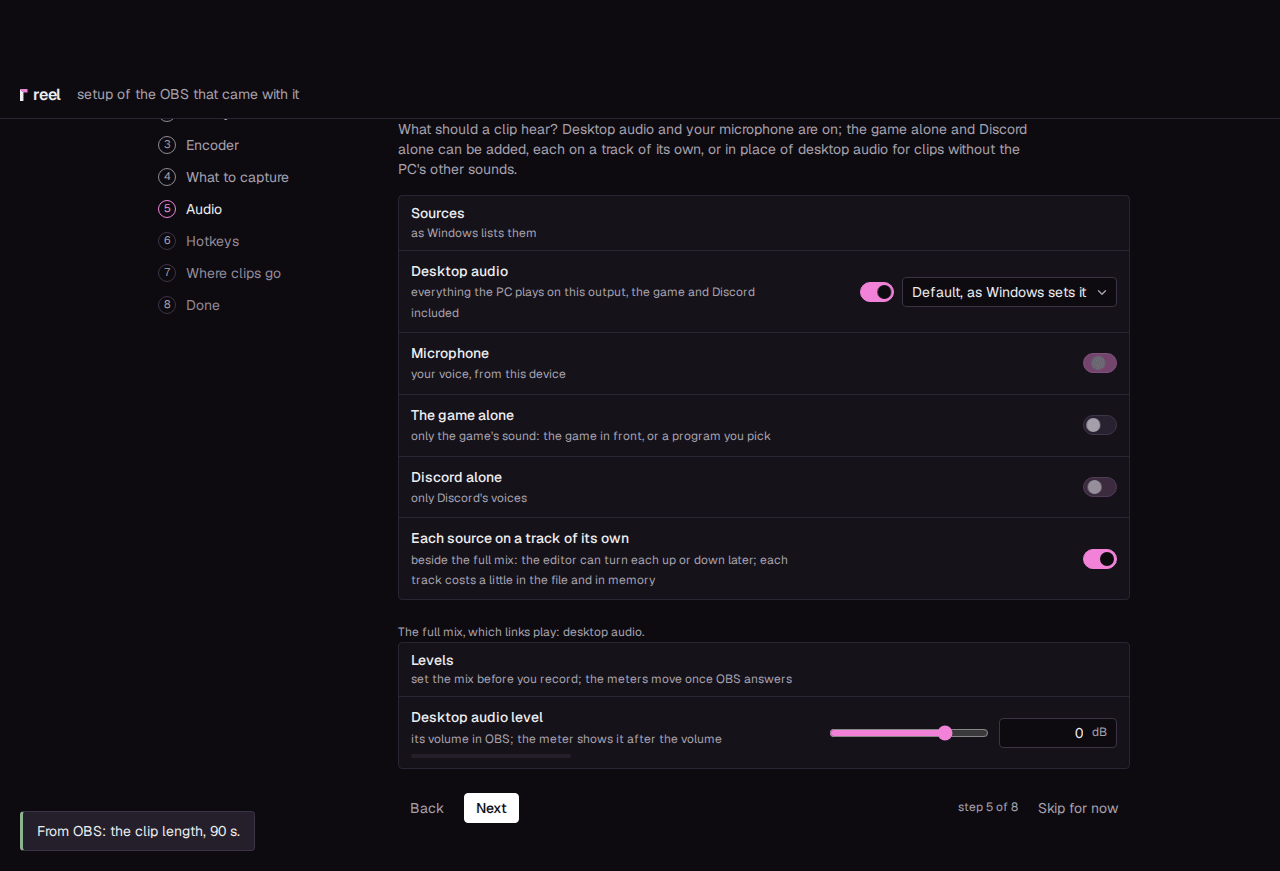
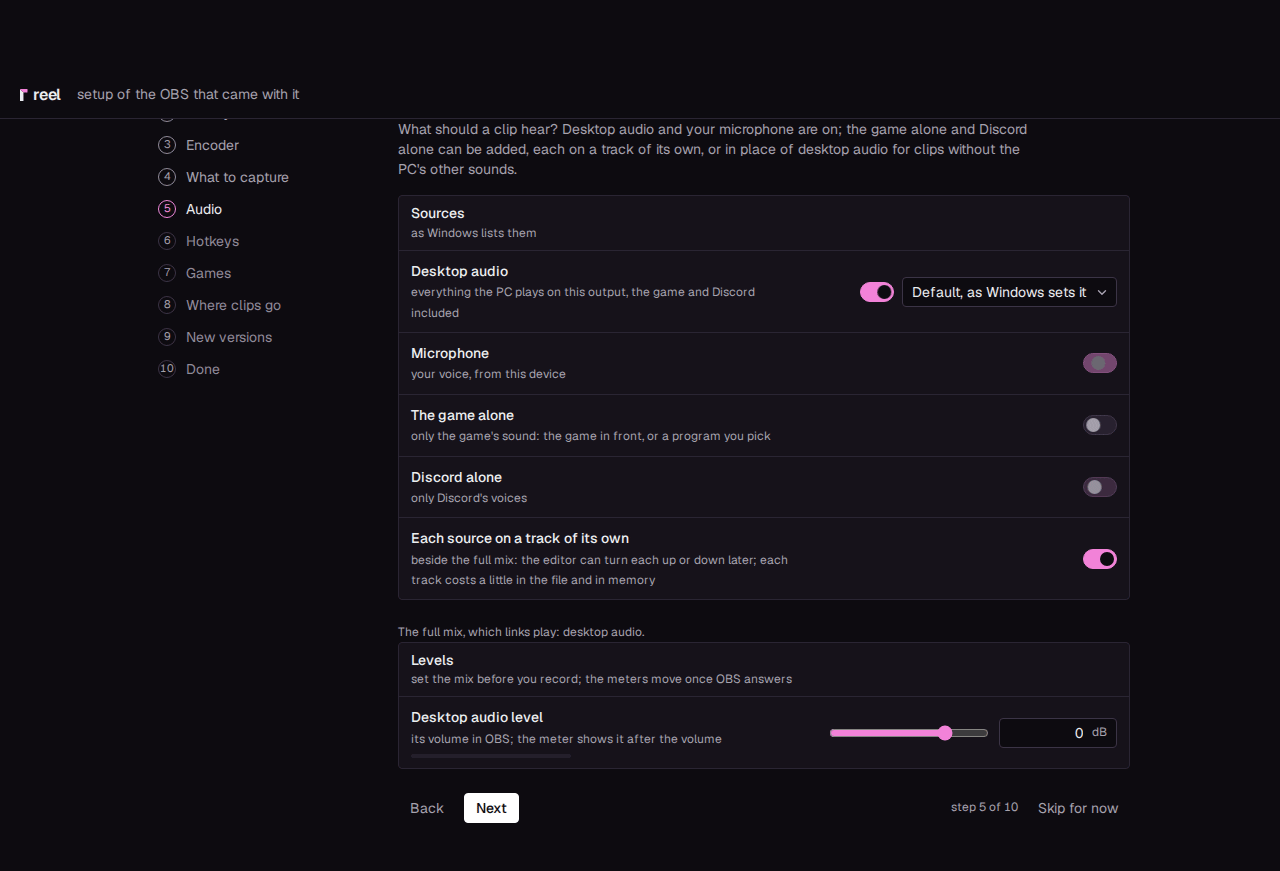
docs: what a game does while it runs, the server's titles on a rename, and the setup's pictures taken again
Games and apps gains the running check, the replay buffer only while a game runs and a game's own
Off, the games that record by themselves and stop the recording when they close, the grace
period, what the Save hotkey says when it saves nothing, the bar and the tray, the three layers
for every behaviour in one table, and two more examples. The privacy page says what the device
token reaches, the new title route with it. The setup guides gain the step's Replay buffer choice;
their pictures are taken again with the step Games in the list, under its step numbers.

Changed region(s): [[0.0, 0.93, 0.2188, 0.992], [0.125, 0.31, 0.2188, 0.434], [0.75, 0.899, 0.7812, 0.93]]

diff --git a/docs/games-and-apps.md b/docs/games-and-apps.md
@@ -1,8 +1,10 @@
 # Games and apps
 
 Settings, **Games and apps**, in the app's **Recording** group, is the list of the programs reel
-has seen on this PC: which ones are games, and the name each gives its clips. Steam's installed
-games come into it by themselves. The list is this PC's alone and stays on it.
+has seen on this PC: which ones are games, the name each gives its clips, and what each does
+while it runs: whether the replay buffer runs, whether a session recording starts by itself and
+stops when it closes, and whether uploads and encoding wait. Steam's installed games come into it
+by themselves. The list is this PC's alone and stays on it.
 
 ## How a program gets in
 
@@ -20,8 +22,12 @@ editors, Explorer, OBS and reel itself never come in: reel knows they are no gam
 !!! note "On Linux"
 
     The app cannot tell which program is in front on Linux, so there the list fills from Steam
-    and by hand, and clips are named as before: by the game OBS captures by its window, when it
-    does, and otherwise by their date.
+    and by hand. It can tell which programs of the list run: the replay buffer, a session
+    recording that starts by itself and one that stops with its game work as on Windows, and a
+    clip takes the name of the game that runs, when one Game alone runs. Otherwise clips are
+    named as before: by the game OBS captures by its window, when it does, and otherwise by
+    their date. A program not sorted yet never counts as a game there, as reel cannot tell
+    whether it has the whole screen; the waits are Windows' alone.
 
 ## Steam
 
@@ -74,6 +80,9 @@ A program's page shows its class as four cards; one click sorts it.
 | | Game | Not a game | Not sorted yet | Ignored |
 |---|---|---|---|---|
 | Clips saved in front of it take its name | yes | yes | yes | no |
+| The replay buffer, when it runs only while a game runs | runs while it runs | not started by it | runs while it has the whole screen | as if it were not there |
+| Records by itself, when every game does | yes | no | no | no |
+| Stops the session recording when it closes | yes | no | no | no |
 | The waits, when they are on | while it is in front | never | while it has the whole screen | never |
 | In the list | by name | by name | first, marked | at the end |
 
@@ -95,10 +104,94 @@ A program's page shows its class as four cards; one click sorts it.
 - **Clips are named** (Windows): after its name, or after its window's title, for an emulator
   or a launcher that shows the game it runs.
 - **Class**: the four cards above.
-- **This program** (Windows): the waits for this program alone, **As its class**, **On** or
-  **Off**, with the line of where its value comes from ([The waits](#the-waits)).
+- **This program**: what it does while it runs, each **As its class**, **On** or **Off** for this
+  program alone, with the line of where its value comes from ([Every game, its class, its own
+  setting](#every-game-its-class-its-own-setting)): **Replay buffer**, **Record by itself**,
+  **Stop when it closes**, and on Windows the waits.
 - **Remove from the list**: it comes back as Not sorted yet when it is seen again; a Steam game
   is not added again. The class Ignored keeps a program out for good.
+
+The list says **running now** on the line of a program that runs.
+
+## While a game runs
+
+reel looks at the programs that run every 3 seconds: on Windows each process and the file it
+runs from, on Linux each program's file under `/proc`. A program counts when its file is in the
+list, or lies in the folder of a Steam game of the list. Nothing of it leaves the PC; the Log
+says each start and close of a program of the list, for example `game: Ember Pass started
+(C:\Games\Ember Pass\EmberPass-Win64-Shipping.exe), a Game`.
+
+### The replay buffer
+
+Settings, **OBS**, **The replay buffer**, **Runs**:
+
+- **always**, the default: as before, a clip can be saved at any time.
+- **only while a game runs**: OBS's replay buffer starts with a game and stops once the last
+  one closed and the [grace period](#the-grace-period) passed. It leaves the PC its memory and
+  its encoder while no game runs.
+
+A game can also stop it while it runs, with its own **Replay buffer** set to **Off**: a heavy
+game that needs every bit of the PC. Such an Off wins over every other program that runs: the
+buffer stays stopped until that game closes.
+
+With an OBS of your own, reel starts and stops OBS's replay buffer only with **Start the
+replay buffer** on (OBS, obs-websocket); choosing **only while a game runs** turns it on, and
+says so. The setup's step **Games** asks the same, **Always** pressed.
+
+### Session recordings
+
+Settings, **Session recording**, **With a game**:
+
+- **Every game records by itself**, off by default: on, a session recording starts when a Game
+  starts. Off, only the games you choose do, with **Record by itself** on their page.
+- **Stop the session recording when its game closes**, on by default: a recording stops once its
+  game closed and the grace period passed. That is also one you started by hand while the game
+  ran. With several such games running, it stops once the last of them closed.
+- **Grace period**, 60 s by default (0 to 600).
+- **Record by itself now** names the games that do, as the list sets them.
+
+One recording covers every game: a second game that starts while one runs does not start
+another. A game that runs when reel starts starts none; one that starts after does. The
+recording takes the game's name, as a clip does. Its notification, **Session recording started**,
+says `Ember Pass started. It stops when Ember Pass closes; Alt+F9 stops it sooner.`, and its end
+**Session recording stopped: Ember Pass closed**. **Record** and Alt+F9 stop it sooner, as
+any recording.
+
+### The grace period
+
+A game that closes and starts again within the grace period counts as still running: a
+launcher that restarts the game, a crash and a quick start again, a change of graphics
+settings that restarts it. The recording goes on as one, and a buffer that runs only while a
+game runs stays. The Log says `game: Ember Pass closed; the session recording stops in 60 s
+unless it starts again`.
+
+### When a clip cannot be saved
+
+While the replay buffer is stopped by these rules, the Save hotkey saves nothing. reel says so
+at once, as a game in full screen may hold notifications back:
+
+- the sound **No clip** (Settings, **Sounds**), a short falling tone, which can be turned off or
+  changed there;
+- the notification **No clip saved**: `The replay buffer is off while Starfall Tactics runs, as
+  set for it under Games and apps. Alt+F9 records a session instead.`, with **Open Games and
+  apps**;
+- in the window, a toast that says why, and the bar's state;
+- in the tray, **Save clip** greyed, with why on the line under it.
+
+**Record** (Alt+F9) works all along.
+
+### In the bar and the tray
+
+While a Game of the list runs, the window's bar names it after its state's words, quietly; a
+long name is cut short, and gives way first on a narrow window, before Record or the state's
+fix. Its menu's sentence says what the game gets: `Ember Pass runs for 14 min, a Game: the
+replay buffer runs.` The tray names it on a line of its own, `Ember Pass runs: the recording
+stops when it closes`, and its tooltip ends with it.
+
+With the buffer stopped, the bar says **waiting for a game** (only while a game runs, and none
+runs) or **no replay buffer** (a game's own Off), the latter with **Games and apps** to change
+it. A program not sorted yet that takes the whole screen shows in the tray as `Quarry Kings is
+new: sort it`, with **Game**, **Not a game**, **Ignore** and **Open in settings**.
 
 ## Renaming
 
@@ -110,8 +203,14 @@ their game, and changes the titles reel made them (the name followed by the mome
 the library on this PC, and the game's own collection follows.
 
 On a connected PC the titles change in the app (Settings, Status, and a clip not sent yet goes
-up with its new title), but not on the server: the app cannot change a clip's title there. Its
-question says so, with how many the server has; change a title on the clip's page on the
+up with its new title). The question also offers **And the N on the server**, on to begin with:
+the titles of the clips this PC sent, changed on the server too. reel sends each one's title
+before and after; the server changes it only while it still reads as before, so a title someone
+changed on the server since stays, and the toast says how many did. A clip whose title on the
+PC was changed by hand is not sent at all.
+
+A server of a version before this cannot take a title from the app: the question then says the
+server's titles stay, with how many the server has; change a title on the clip's page on the
 server.
 
 ## The waits
@@ -129,21 +228,33 @@ Connected, **Only on the internet, not on the LAN** shows under it while it is o
 upload to a server on the local network goes on during a game. An install updated from a
 version before Games and apps starts with the waits off too.
 
-What waits, while which program is in front, comes in three steps, each changing the one
-before:
-
-1. **Every game**: the switch above.
-2. **Its class**: a Game takes it as it is, while its window is in front (a borderless game
-   counts); Not sorted yet takes it while it has the whole screen; Not a game and Ignored never
-   wait.
-3. **Its own setting**, under This program on its page: **On** or **Off** for this program alone,
-   whatever the switch and its class say; **As its class** leaves them.
-
-A program's page shows the three as a line under the row, the one that counts in white:
-`Every game, set under New clips: off › Starfall Tactics: on`.
+What waits, while which program is in front, comes from the [three
+layers](#every-game-its-class-its-own-setting): a Game waits while its window is in front (a
+borderless game counts), a program not sorted yet while it has the whole screen.
 
 The update of the OBS copy for games that run as administrator still waits until no full
 screen program is in front, whatever these say: Windows' question would take the game's screen.
+
+## Every game, its class, its own setting
+
+What a program does while it runs comes in three layers, each changing the one before:
+
+1. **Every game**: set where its subject is.
+2. **Its class**: what the class makes of it ([The classes](#the-classes)).
+3. **Its own setting**, under This program on its page: **On** or **Off** for this program
+   alone, whatever the other two say; **As its class** leaves them.
+
+| | Every game, set under | Off by its class | Its own On | Its own Off |
+|---|---|---|---|---|
+| **Replay buffer** | OBS, The replay buffer: always, or only while a game runs | Not a game and Ignored never start it; Ignored is as if it were not there | it runs while it runs | stopped while it runs, whatever runs beside it |
+| **Record by itself** | Session recording, Every game records by itself | every class but Game | it records when it starts | never |
+| **Stop when it closes** | Session recording, Stop the session recording when its game closes | every class but Game | the recording stops when it closes | the recording goes on after it |
+| **The waits** (Windows) | New clips (Upload when connected) | Not a game and Ignored | they wait while it is in front | never |
+
+Ignored overrides its own settings: an Ignored program does nothing. A program's page shows the
+layers as a line under each row, the one that counts in white: `Every game, set under New
+clips: off › Starfall Tactics: on`. At the top of the list, **What happens while a program
+runs** shows the order.
 
 ## What stays on the PC
 
@@ -169,3 +280,17 @@ takes the whole screen, comes in as Not sorted yet: sort it as **Not a game**.
 **A heavy game.** One game keeps the PC so busy that a re-encode beside it stutters, while the
 others are fine. Leave the waits off under New clips, and on that game's page set **Encoding
 waits** to **On**: the line reads `Every game, set under New clips: off › Starfall Tactics: on`.
+
+**A heavy game with its replay buffer off.** Starfall Tactics needs all of the PC's memory, and
+clips of it are not wanted. On its page set **Replay buffer** to **Off**. While it runs, OBS's
+replay buffer is stopped, also with another game running beside it; the bar says **no replay
+buffer**, and the Save hotkey plays **No clip** and says why. Alt+F9 still records a session.
+Once it closed and the grace period passed, the buffer runs again.
+
+**Two games that record by themselves.** You want every evening of Ember Pass and of Cinder
+Road on record, and clips of the rest. Leave **Every game records by itself** off, and on both
+games' pages set **Record by itself** to **On**; **Record by itself now** under Session recording
+names them. Ember Pass starts a recording; Cinder Road, started an hour later beside it, starts
+none, and the one recording goes on. Ember Pass closes first: the recording goes on while
+Cinder Road runs, and stops once it closed too and the grace period passed. A crash of Cinder
+Road and a start again within the minute does not cut it.

diff --git a/docs/setup/all-in-one.md b/docs/setup/all-in-one.md
@@ -123,17 +123,23 @@ error appears.
    **Record a session**, Alt+F9, starts and stops a
    [session recording](../desktop-app.md#recording-a-whole-session).
 7. **Games**: reel keeps a list of the programs it has seen, which says which ones are games
-   and the name each gives its clips. **Your Steam games** names the games installed in Steam on
-   this PC, read here, and **Add my Steam games to the list** is on: they go into the list as
-   Games with their names in Steam, and each new one as it is installed. Switched off, Steam adds
-   nothing; without Steam, its games come in once it is installed. Settings, **Games and apps**
-   changes it later ([Games and apps](../games-and-apps.md)).
+   and the name each gives its clips. **Replay buffer** is **Always** to begin with: a clip can be
+   saved at any time. **Only while a game runs** starts OBS's replay buffer with a game and stops
+   it a minute after the last one closed, which leaves the PC its memory and its encoder when no
+   game runs. **Your Steam games** names the games installed in Steam on this PC, read here, and
+   **Add my Steam games to the list** is on: they go into the list as Games with their names in
+   Steam, and each new one as it is installed. Switched off, Steam adds nothing; without Steam,
+   its games come in once it is installed. Settings, **Games and apps** changes it later, with
+   the games that record by themselves ([Games and apps](../games-and-apps.md)).
+
+    ![Games](img/app-setup-7-games.png)
+
 8. **Where clips go**: **This PC only** is chosen already. reel keeps the library in the app, on
    this PC, and nothing goes anywhere ([Standalone](standalone.md)). **Clips folder** is where OBS
    writes the clips; reel takes each one into the library. For a server, see
    [Add a server for links](#add-a-server-for-links).
 
-    ![Where clips go](img/app-setup-7-where.png)
+    ![Where clips go](img/app-setup-8-where.png)
 
 9. **New versions**: **Look for new versions on GitHub** is on. The app then asks GitHub for
    reel's newest release, with reel's version and nothing else, a minute after the start and
@@ -141,11 +147,11 @@ error appears.
    asks ([What leaves your PC](../privacy.md#what-leaves-your-pc)). With a server this step is
    not there: the server brings the app's updates.
 
-    ![New versions](img/app-setup-8-new-versions.png)
+    ![New versions](img/app-setup-9-new-versions.png)
 
 10. **Done** shows a summary. Press **Finish**.
 
-    ![Done, the summary](img/app-setup-9-done.png)
+    ![Done, the summary](img/app-setup-10-done.png)
 
 When it worked, OBS starts with your setup, hidden (no window, no second tray icon), and the window
 opens on your library. From now on OBS starts and stops with the app. If one part could not be

diff --git a/docs/setup/own-obs.md b/docs/setup/own-obs.md
@@ -68,8 +68,13 @@ before you begin.
    saves, and the app takes the clip in. Pick a key here that OBS does not use. With a server (the
    next step), **Save and share** shows here too. **Record a session**, Alt+F9, starts and stops
    a [session recording](../desktop-app.md#recording-a-whole-session).
-4. **Games**: the same step as in [All in one](all-in-one.md#3-the-setup): **Add my Steam
-   games to the list** is on, and Settings, **Games and apps** changes it later.
+4. **Games**: the same step as in [All in one](all-in-one.md#3-the-setup): **Replay buffer** is
+   **Always**, **Add my Steam games to the list** is on, and Settings, **Games and apps** changes
+   them later. **Only while a game runs** needs **Start the replay buffer** (step 2) to start and
+   stop OBS's replay buffer: choosing it turns that on, and says so.
+
+    ![Games, without Steam on this PC](img/app-light-4-games.png)
+
 5. **Where clips go**: **This PC only** is chosen already: the library on this PC
    ([Standalone](standalone.md)). For a server, see [Add a server for links](#add-a-server-for-links).
    **Clips folder** is OBS's recording folder, as OBS says; a folder picked here is set in OBS.
@@ -78,7 +83,7 @@ before you begin.
    is not there.
 7. **Done** shows a summary. Press **Finish**, and the window opens on your library.
 
-    ![Done, the summary](img/app-light-6-done.png)
+    ![Done, the summary, with the replay buffer only while a game runs](img/app-light-7-done.png)
 
 **Skip for now**, on every step, leaves the setup for later: the app opens on Settings, **OBS**,
 and **Run the setup**, in its **obs-websocket** panel, opens it again. An app that was set up

diff --git a/docs/privacy.md b/docs/privacy.md
@@ -144,6 +144,14 @@ pairing tries are limited per address.
   a server on the same PC, so the token never crosses the network
   unencrypted.
 
+The token reaches the clips that device sent, and nothing else of the
+library: the app sends clips, reads how they went, makes a link to one,
+and looks for a new version of itself. For a rename under [Games and
+apps](games-and-apps.md#renaming) it can also change a clip's title,
+with `PATCH /api/device/clips/{id}` and the title before and after: only
+for a clip that device sent and its user may edit, and only while the
+title still reads as before, so a title changed on the server stays.
+
 **Revoke** next to the device under Settings, **Devices** signs that app
 out at once, and it asks to be paired again. The list shows each device's
 name, whose it is, when it was last seen and how many clips it sent.

diff --git a/docs/setup/linux.md b/docs/setup/linux.md
@@ -133,7 +133,8 @@ Start OBS first.
    Settings, **OBS**, for as long as the app runs.
 3. **Hotkeys**, **Games**, **Where clips go**, **New versions** and **Done**, as on Windows. On
    Linux the list of games fills from Steam and by hand: the app cannot tell which program is in
-   front there.
+   front there, only which programs of the list run, which is what the replay buffer's choice
+   needs.
 
 The recording format and the encoder are OBS's: any H.264 encoder (VAAPI, NVENC or x264) with AAC
 audio keeps clips as they are, never encoded again. [Your own OBS](own-obs.md#3-obss-settings-later)
